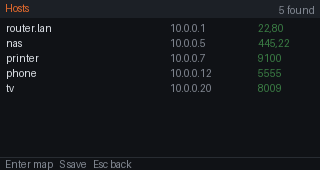
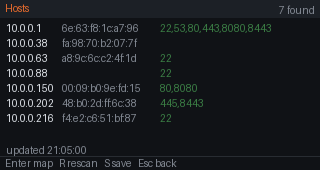
Refuse to draw on a framebuffer that is not the device panel
The app assumed 320x170 and wrote that many pixels into whatever /dev/fb0
happened to be, corrupting a mismatched display. Read the framebuffer
geometry first and fail with a clear message instead.

diff --git a/app/mapzero.py b/app/mapzero.py
@@ -34,6 +34,7 @@ import topology
 FB_DEV = "/dev/fb0"
 W, H = 320, 170
 BPP = 2
+FBIOGET_VSCREENINFO = 0x4600
 
 FONT_PATHS = (
     "/usr/share/fonts/truetype/dejavu/DejaVuSans.ttf",
@@ -206,6 +207,26 @@ class Scanner:
         self.done = True
 
 
+def check_framebuffer(fd):
+    """Refuse to draw on a framebuffer that is not the device's 320x170 panel.
+
+    Writing 320x170 of pixels into an arbitrary framebuffer corrupts whatever
+    else is using it, so fail loudly instead.
+    """
+    try:
+        import fcntl
+        import struct as _struct
+        buf = bytearray(160)
+        fcntl.ioctl(fd, FBIOGET_VSCREENINFO, buf, True)
+        xres, yres = _struct.unpack("=II", bytes(buf[:8]))
+    except OSError:
+        return  # cannot query: trust the device
+    if (xres, yres) != (W, H):
+        raise OSError(
+            "%s is %dx%d, expected %dx%d" % (FB_DEV, xres, yres, W, H)
+        )
+
+
 class App:
     def __init__(self, fb_path=FB_DEV):
         self.font = load_font(13)
@@ -229,6 +250,7 @@ class App:
         self.mm = None
         if fb_path is not None:
             self.fd = os.open(fb_path, os.O_RDWR)
+            check_framebuffer(self.fd)
             self.mm = mmap.mmap(self.fd, W * H * BPP, mmap.MAP_SHARED,
                                 mmap.PROT_WRITE | mmap.PROT_READ)
         self.input_fds = open_input_devices()
@@ -546,7 +568,7 @@ def main():
     try:
         app = App()
     except OSError as exc:
-        print("mapzero: cannot open %s: %s" % (FB_DEV, exc), file=sys.stderr)
+        print("mapzero: %s" % exc, file=sys.stderr)
         return 3
     try:
         app.run()

diff --git a/tests/test_mapzero.py b/tests/test_mapzero.py
@@ -4,6 +4,7 @@ import os
 import sys
 import tempfile
 import unittest
+import unittest.mock
 
 sys.path.insert(0, os.path.join(os.path.dirname(os.path.abspath(__file__)), "..", "app"))
 
@@ -149,6 +150,26 @@ class ScanCmdTest(unittest.TestCase):
         finally:
             netscan._run_cancellable = original
         self.assertEqual(len(calls), 1)
+
+
+class FramebufferTest(unittest.TestCase):
+    def test_mismatched_framebuffer_is_refused(self):
+        """The app must not draw 320x170 into an arbitrary framebuffer."""
+        import mapzero
+
+        class FakeFd:
+            pass
+
+        with unittest.mock.patch("os.open", return_value=FakeFd()), \
+                unittest.mock.patch("fcntl.ioctl") as ioctl:
+            def fake_ioctl(fd, request, buf, mutate):
+                import struct
+                struct.pack_into("=II", buf, 0, 1920, 1080)
+                return 0
+
+            ioctl.side_effect = fake_ioctl
+            with self.assertRaises(OSError):
+                mapzero.check_framebuffer(FakeFd())
 
 
 if __name__ == "__main__":

diff --git a/README.md b/README.md
@@ -25,9 +25,13 @@ saves every scan as JSON so it can be reopened later.
 | --- | --- |
 | `Up` / `Down` (or `Z` / `X`) | move |
 | `Enter` | select / open the topology view |
+| `R` | rescan the network in the background and refresh the view |
 | `S` | save the current map |
 | `D` | delete the selected saved map |
-| `Esc` | back / quit |
+| `Esc` | back / quit (during a scan: stop the scan) |
+
+`Esc` during a scan really stops it - the running nmap process is terminated,
+not just hidden.
 
 ## Install on the device
 
@@ -62,13 +66,15 @@ Optional, `~/.config/mapzero/config.json`:
 ```json
 {
   "subnet": "192.168.1.0/24",
-  "thorough": false
+  "thorough": false,
+  "refresh": 0
 }
 ```
 
 `subnet` overrides the automatically detected network. `thorough` makes nmap
 scan the top 100 ports instead of a short list of common ones - slower, but it
-finds more services.
+finds more services. `refresh` is the auto-refresh interval in seconds; `0`
+(disabled) means the topology only changes when you press `R`.
 
 ## How the scan works
 
@@ -76,12 +82,14 @@ Discovery uses an **unprivileged TCP connect scan** (`nmap -sT`), so no root is
 needed:
 
 ```
-nmap -sT -n -Pn --max-retries 0 --host-timeout 30s -p 22,23,53,80,443,445,554,8080,8443 -oX - <hosts>
+nmap -sT -n --max-retries 0 --host-timeout 30s -p 22,23,53,80,443,445,554,8080,8443 -oX - <host> <host> ...
 ```
 
 The subnet is split into chunks of 64 hosts so the progress display advances
-and one slow host cannot stall the whole scan. nmap's XML output is parsed into
-hosts, ports, services and (from the kernel ARP cache) MAC addresses.
+and one slow host cannot stall the whole scan. Each host is passed as its own
+argument - nmap cannot parse a comma-separated list, and trying to made it scan
+every host on its own. nmap's XML output is parsed into hosts, ports,
+services and (from the kernel ARP cache) MAC addresses.
 
 ## Layout
 
